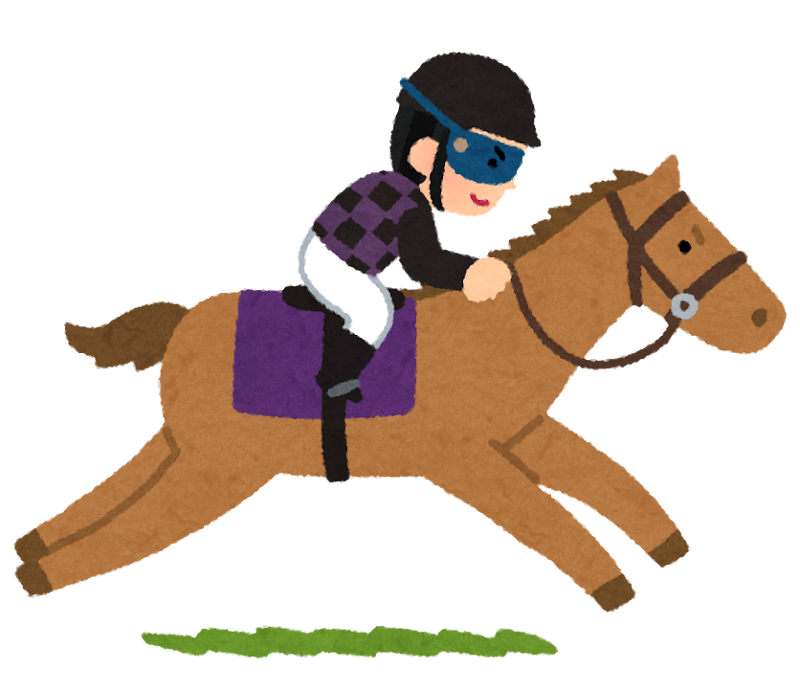
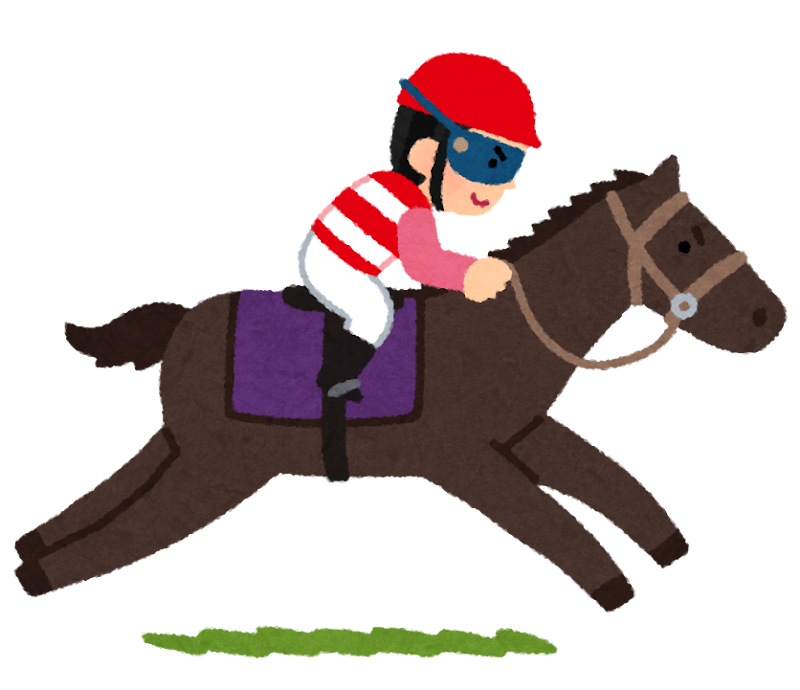
枠順確定、画像の一部削除

diff --git a/index.html b/index.html
@@ -18,24 +18,23 @@
     
     <div id="race-track">
         <div id="countdown" style="display: none;">3</div>
-        <img src="horse1.png" number="1" odds="3.8"     id="リバティアイランド" class="horse" style="top: 105px; left: 0;">
-        <img src="horse2.png" number="2" odds="4.8"     id="レーベンスティール" class="horse" style="top: 130px; left: 0;">
-        <img src="horse3.png" number="3" odds="5.1"     id="ドウデュース" class="horse" style="top: 155px; left: 0;">
-        <img src="horse4.png" number="4" odds="9.2"     id="ベラジオオペラ" class="horse" style="top: 180px; left: 0;">
-        <img src="horse5.png" number="5" odds="13.3"    id="ソールオリエンス" class="horse" style="top: 205px; left: 0;">
-        <img src="horse6.png" number="6" odds="13.9"    id="ジャスティンパレス" class="horse" style="top: 230px; left: 0;">
-        <img src="horse7.png" number="7" odds="19.7"    id="タスティエーラ" class="horse" style="top: 255px; left: 0;">
-        <img src="horse8.png" number="8" odds="20.1"    id="ホウオウビスケッツ" class="horse" style="top: 280px; left: 0;">
-        <img src="horse9.png" number="9" odds="20.2"    id="ノースブリッジ" class="horse" style="top: 305px; left: 0;">
-        <img src="horse10.png" number="10" odds="21.2"  id="ダノンベルーガ" class="horse" style="top: 330px; left: 0;">
-        <img src="horse11.png" number="11" odds="29.3"  id="キングズパレス" class="horse" style="top: 355px; left: 0;">
-        <img src="horse12.png" number="12" odds="41.7"  id="リフレーミング" class="horse" style="top: 380px; left: 0;">
-        <img src="horse13.png" number="13" odds="43.9"  id="マテンロウスカイ" class="horse" style="top: 405px; left: 0;">
-        <img src="horse14.png" number="14" odds="58.1"  id="ステラヴェローチェ" class="horse" style="top: 430px; left: 0;">
-        <img src="horse15.png" number="15" odds="82.4"  id="シルトホルン" class="horse" style="top: 455px; left: 0;">
-        <img src="horse16.png" number="16" odds="101.8" id="ニシノレヴナント" class="horse" style="top: 480px; left: 0;">
-        <img src="horse17.png" number="17" odds="189.8" id="サトノエルドール" class="horse" style="top: 505px; left: 0;">
-        <!-- <img src="horse18.png" number="18" odds="1.5" id="イクイノックス" class="horse" style="top: 530px; left: 0;"> -->
+        <img src="horse1.png" number="1" odds="9.8"     id="ベラジオオペラ" class="horse" style="top: 105px; left: 0;">
+        <img src="horse2.png" number="2" odds="38.2"    id="マテンロウスカイ" class="horse" style="top: 130px; left: 0;">
+        <img src="horse2.png" number="3" odds="46.6"    id="ステラヴェローチェ" class="horse" style="top: 155px; left: 0;">
+        <img src="horse3.png" number="4" odds="18.7"    id="タスティエーラ" class="horse" style="top: 180px; left: 0;">
+        <img src="horse3.png" number="5" odds="22.8"    id="ノースブリッジ" class="horse" style="top: 205px; left: 0;">
+        <img src="horse4.png" number="6" odds="14.8"    id="ソールオリエンス" class="horse" style="top: 230px; left: 0;">
+        <img src="horse4.png" number="7" odds="6.9"     id="ドウデュース" class="horse" style="top: 255px; left: 0;">
+        <img src="horse5.png" number="8" odds="20.3"    id="キングズパレス" class="horse" style="top: 280px; left: 0;">
+        <img src="horse5.png" number="9" odds="19.8"    id="ホウオウビスケッツ" class="horse" style="top: 305px; left: 0;">
+        <img src="horse6.png" number="10" odds="27.2"  id="ダノンベルーガ" class="horse" style="top: 330px; left: 0;">
+        <img src="horse6.png" number="11" odds="14.0"  id="ジャスティンパレス" class="horse" style="top: 355px; left: 0;">
+        <img src="horse7.png" number="12" odds="3.3"   id="リバティアイランド" class="horse" style="top: 380px; left: 0;">
+        <img src="horse7.png" number="13" odds="78.2"  id="シルトホルン" class="horse" style="top: 405px; left: 0;">
+        <img src="horse8.png" number="14" odds="4.4"   id="レーベンスティール" class="horse" style="top: 430px; left: 0;">
+        <img src="horse8.png" number="15" odds="73.4"  id="ニシノレヴナント" class="horse" style="top: 455px; left: 0;">
+        
+        <!-- <img src="horse8.png" number="18" odds="1.5" id="サイレンススズカ" class="horse" style="top: 530px; left: 0;"> -->
 
     </div>
 
